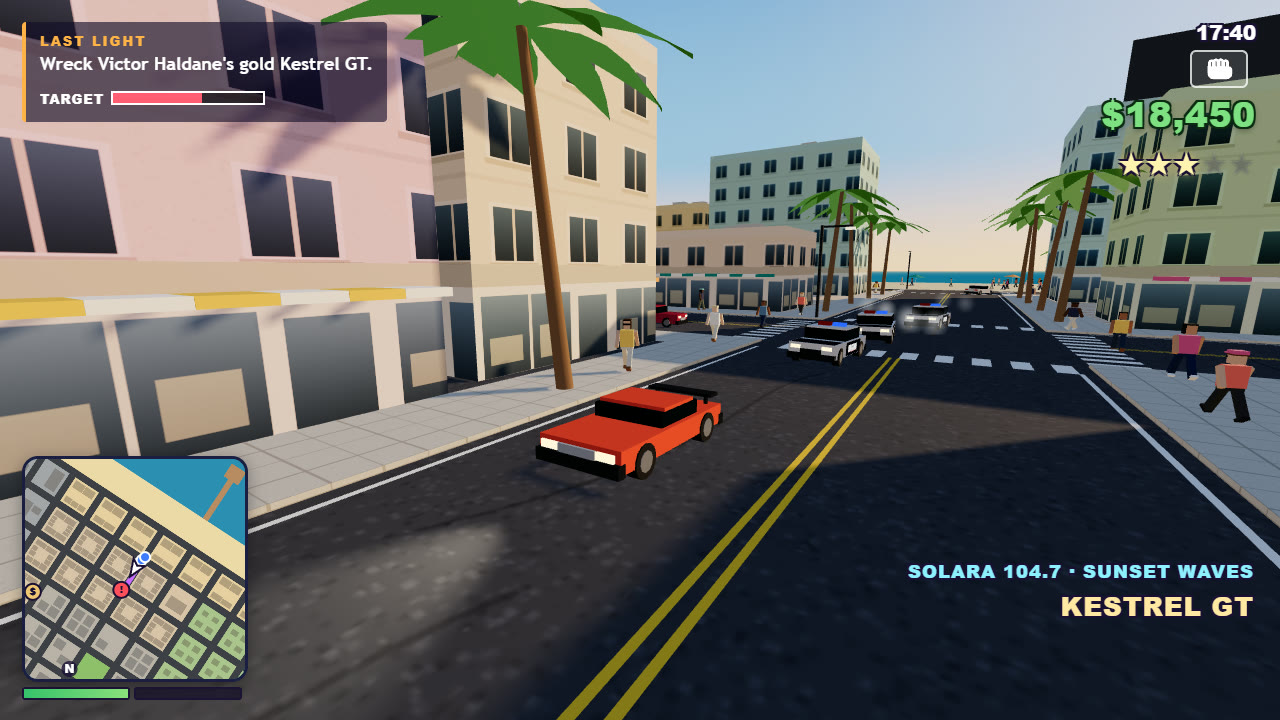
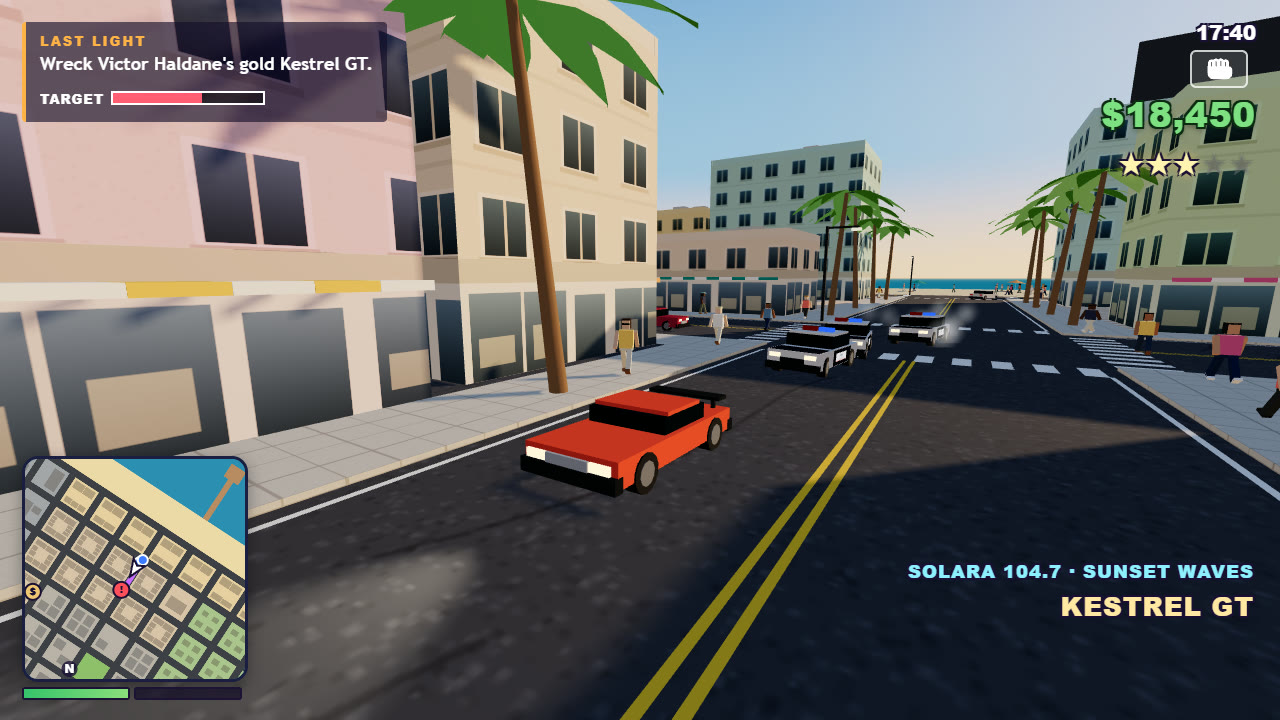
Polish chase AI, carjacking, explosions and screenshot scenes
Cruisers stop doubling back and box in a stopped car instead of shoving it;
startled drivers brake for a carjack; explosions hurt people and cars nearby;
gameplay systems lead the dossier; sky, haze and muzzle flash tuned.

diff --git a/game/src/game.js b/game/src/game.js
@@ -2,29 +2,15 @@
 // the render loop, and moves between the title screen, play, pause, death and arrest. Systems reach
 // each other through this object and talk through its event bus.
 import * as THREE from 'three';
-import { STEP, CAMERA } from './core/config.js';
-import { Dice } from './core/random.js';
-import { EventBus } from './core/events.js';
-import { Input } from './core/input.js';
-import { buildCity } from './world/cityBuilder.js';
-import { createSky, Lighting } from './world/skyAndLight.js';
-import { VehicleManager } from './vehicles/vehicleManager.js';
+import { MissionManager } from './missions/missionManager.js';
+import { PoliceManager } from './police/policeManager.js';
+import { WantedLevel } from './police/wantedLevel.js';
 import { TrafficManager } from './traffic/trafficManager.js';
+import { VehicleManager } from './vehicles/vehicleManager.js';
 import { PedestrianManager } from './peds/pedestrianManager.js';
 import { Player } from './player/player.js';
 import { CameraRig } from './player/cameraRig.js';
 import { CombatSystem } from './combat/combatSystem.js';
-import { WantedLevel } from './police/wantedLevel.js';
-import { PoliceManager } from './police/policeManager.js';
-import { MissionManager } from './missions/missionManager.js';
-import { Particles } from './fx/particles.js';
-import { SkidMarks } from './fx/skidMarks.js';
-import { Tracers } from './fx/tracers.js';
-import { Headlights } from './fx/headlights.js';
-import { AudioEngine } from './audio/audioEngine.js';
-import { SoundEffects } from './audio/soundEffects.js';
-import { VehicleAudio } from './audio/vehicleAudio.js';
-import { Radio, STATIONS } from './audio/radio.js';
 import { Hud } from './ui/hud.js';
 import { Minimap } from './ui/minimap.js';
 import { Notifications } from './ui/notifications.js';
@@ -33,7 +19,21 @@ import { SaveGames } from './save/saveGame.js';
 import { Progress } from './progression/progress.js';
 import { Pickups } from './progression/pickups.js';
 import { GunShop } from './progression/gunShop.js';
+import { AudioEngine } from './audio/audioEngine.js';
+import { SoundEffects } from './audio/soundEffects.js';
+import { VehicleAudio } from './audio/vehicleAudio.js';
+import { Radio, STATIONS } from './audio/radio.js';
+import { Particles } from './fx/particles.js';
+import { SkidMarks } from './fx/skidMarks.js';
+import { Tracers } from './fx/tracers.js';
+import { Headlights } from './fx/headlights.js';
+import { buildCity } from './world/cityBuilder.js';
+import { createSky, Lighting } from './world/skyAndLight.js';
 import { place } from './missions/missionPlaces.js';
+import { STEP, CAMERA } from './core/config.js';
+import { Dice } from './core/random.js';
+import { EventBus } from './core/events.js';
+import { Input } from './core/input.js';
 
 export class Game {
   constructor(canvas, { seed = 7, shot = null } = {}) {

diff --git a/game/src/vehicles/vehicleModels.js b/game/src/vehicles/vehicleModels.js
@@ -15,7 +15,6 @@ function materials() {
   shared.front = new THREE.MeshBasicMaterial({ color: 0xfff6dc, toneMapped: false });
   shared.tire = new THREE.MeshStandardMaterial({ color: 0x1c1c1e, roughness: 0.9 });
   shared.hub = new THREE.MeshStandardMaterial({ color: 0xc9ccd1, roughness: 0.3, metalness: 0.7 });
-  shared.wheel = null;
   shared.police = new THREE.MeshBasicMaterial({ map: signTexture({ title: 'PSPD', subtitle: 'PORT SOLARA POLICE', background: '#f4f4f4', color: '#1d3557', accent: '#e63946' }), transparent: false });
   shared.haldane = new THREE.MeshBasicMaterial({ map: signTexture({ title: 'HALDANE', subtitle: 'SECURE COURIER', background: '#1d3047', color: '#ffd27a', accent: '#ffd27a' }) });
   shared.taxi = new THREE.MeshBasicMaterial({ map: signTexture({ title: 'VIREO CAB', background: '#ffe9a8', color: '#1b1b1b', accent: '#1b1b1b', width: 256, height: 64 }), toneMapped: false });
@@ -106,7 +105,6 @@ export function createVehicleModel(type, paint) {
   root.add(body, glass, front, rear);
 
   const wheels = [];
-  const wheelMaterials = [mats.tire, mats.hub, mats.hub];
   const L = type.length;
   const W = type.width;
   const axle = L / 2 - (type.shape === 'van' ? 1.0 : 0.85);
@@ -122,7 +120,6 @@ export function createVehicleModel(type, paint) {
     root.add(pivot);
     wheels.push({ pivot, spin, front: sz > 0 });
   }
-  void wheelMaterials;
 
   const parts = { root, body, glass, front, rear, rearMaterial, wheels, lightbar: null };
   if (type.police) {

diff --git a/game/src/shots/screenshotScenes.js b/game/src/shots/screenshotScenes.js
@@ -80,9 +80,9 @@ function chaseScene(game) {
   target.ai.rejoinRoad();
   game.wanted.force(3);
   const units = [
-    { x: laneX - 3.4, z: z0 + 10 },
-    { x: laneX + 0.4, z: z0 + 18 },
-    { x: laneX - 4.6, z: z0 + 27 },
+    { x: laneX - 3.6, z: z0 + 7.5 },
+    { x: laneX + 0.2, z: z0 + 13 },
+    { x: laneX - 4.2, z: z0 + 19.5 },
   ];
   for (const spec of units) {
     const unit = game.police.spawnUnit(0, 999, { at: { x: spec.x, z: spec.z, heading: Math.PI } });
@@ -99,10 +99,10 @@ function chaseScene(game) {
   simulate(game, 36, () => hold(game, ['KeyW']));
   const rig = game.cameraRig;
   rig.carYawOffset = Math.PI + 0.58;
-  rig.carPitch = 0.17;
+  rig.carPitch = 0.15;
   rig.mouseIdle = 0;
   rig.yaw = car.heading + rig.carYawOffset;
-  rig.distance = 10.5;
+  rig.distance = 9;
   simulate(game, 2, () => hold(game, ['KeyW']));
   rig.yaw = car.heading + rig.carYawOffset;
   rig.mouseIdle = 0;
@@ -165,7 +165,7 @@ function combatScene(game) {
   const aimAt = (enemy) => {
     const p = game.player.pos;
     rig.yaw = Math.atan2(enemy.pos.x - p.x, enemy.pos.z - p.z) - 0.05;
-    rig.pitch = 0.05;
+    rig.pitch = 0.2;
   };
   // Drop the first enforcer, then line up on the next and fire.
   game.input.mouseDown[2] = true;

diff --git a/game/src/player/player.js b/game/src/player/player.js
@@ -6,7 +6,7 @@ import { PLAYER } from '../core/config.js';
 import { createHuman, animateHuman } from '../peds/humanModel.js';
 import { PROTAGONIST } from './playerLook.js';
 import { clamp, dampAngle } from '../core/mathUtils.js';
-import { groundHeightAt } from '../world/roadBuilder.js';
+import { groundHeightAt } from '../world/groundHeight.js';
 import { CivilianBrain } from '../peds/civilianBrain.js';
 
 export class Player {
@@ -91,6 +91,8 @@ export class Player {
   /** Starts getting into a car: walk to the door, pull out any driver, then sit. */
   beginEnter(vehicle) {
     this.entering = { vehicle, time: 0 };
+    // A civilian driver freezes when someone goes for the door.
+    if (vehicle.ai && vehicle.ai.holdFor) vehicle.ai.holdFor(2.5);
   }
 
   enterVehicle(vehicle) {
@@ -182,7 +184,7 @@ export class Player {
       this.pos.z += (dz / d) * step;
       this.heading = dampAngle(this.heading, Math.atan2(dx, dz), 14, dt);
       // A moving car pulls away from a would-be thief.
-      if (vehicle.speed > 9) this.entering = null;
+      if (vehicle.speed > 9 && this.entering.time > 0.8) this.entering = null;
       return;
     }
     this.enterVehicle(vehicle);

diff --git a/game/src/world/roadBuilder.js b/game/src/world/roadBuilder.js
@@ -5,8 +5,9 @@ import { CITY } from '../core/config.js';
 import { MeshBuilder } from './meshBuilder.js';
 import { cityMaterials } from './materials.js';
 import { nodeX, nodeZ, blockCenterX, blockCenterZ } from './cityLayout.js';
+import { CURB_HEIGHT } from './groundHeight.js';
 
-const CURB = 0.15;
+const CURB = CURB_HEIGHT;
 const YELLOW = new THREE.Color('#f2c230');
 const WHITE = new THREE.Color('#f4f1ea');
 
@@ -110,14 +111,4 @@ function crosswalk(dash, x, z, across) {
     if (across === 'x') dash(x - 1, z + k, x + 1, z + k, 0.7, WHITE);
     else dash(x + k, z - 1, x + k, z + 1, 0.7, WHITE);
   }
-}
-
-/** Height of the walkable ground at a point: curbs raise the sidewalks and lots above the road. */
-export function groundHeightAt(x, z) {
-  const half = CITY.road / 2;
-  if (x < CITY.minX + half || x > CITY.maxX - half || z < CITY.minZ + half || z > CITY.maxZ - half) return 0;
-  const fx = (((x - CITY.originX) % CITY.pitch) + CITY.pitch) % CITY.pitch;
-  const fz = (((z - CITY.originZ) % CITY.pitch) + CITY.pitch) % CITY.pitch;
-  const onRoad = fx <= half || fx >= CITY.pitch - half || fz <= half || fz >= CITY.pitch - half;
-  return onRoad ? 0 : CURB;
 }

diff --git a/game/src/traffic/roadDriver.js b/game/src/traffic/roadDriver.js
@@ -20,6 +20,12 @@ export class RoadDriver {
     this.reverseTime = 0;
     this.panic = 0;
     this.honkCooldown = 0;
+    this.halt = 0;
+  }
+
+  /** Stops dead for a moment (someone is yanking the door open). */
+  holdFor(seconds) {
+    this.halt = Math.max(this.halt, seconds);
   }
 
   /** Puts the driver on the segment a → b, keeping only waypoints still ahead of the car. */
@@ -87,6 +93,13 @@ export class RoadDriver {
     const c = v.controls;
     this.honkCooldown -= dt;
     this.panic = Math.max(0, this.panic - dt);
+    if (this.halt > 0) {
+      this.halt -= dt;
+      c.throttle = 0;
+      c.brake = 1;
+      c.handbrake = false;
+      return;
+    }
     if (this.route.length === 0) this.rejoinRoad();
     while (this.route.length && Math.hypot(this.route[0].x - v.pos.x, this.route[0].z - v.pos.z) < 4.5) this.route.shift();
     while (this.route.length < 4) this.extend();

diff --git a/game/src/missions/missionManager.js b/game/src/missions/missionManager.js
@@ -9,6 +9,9 @@ import { MissionMarkers } from './markers.js';
 import { CAST } from '../player/playerLook.js';
 import { formatCash } from '../core/mathUtils.js';
 
+/** Steps that finish in a single update: the HUD keeps showing the previous objective through them. */
+const INSTANT_STEPS = new Set(['spawnVehicle', 'forceWanted', 'givePistol', 'pickup', 'phone']);
+
 class IdleBrain {
   constructor(heading) {
     this.heading = heading;
@@ -128,6 +131,7 @@ export class MissionManager {
     const { mission, index, ctx } = this.active;
     const step = mission.steps[index];
     if (!step) return null;
+    if (INSTANT_STEPS.has(step.type) && this.view) return this.view;
     const type = STEP_TYPES[step.type];
     const text = type.text ? type.text(ctx, step) : step.text ?? null;
     return {

diff --git a/game/src/fx/particles.js b/game/src/fx/particles.js
@@ -116,6 +116,9 @@ export class Particles {
       const heat = this.random();
       this.glowPool.emit(x + this.jitter(1), y + this.random() * 0.6, z + this.jitter(1), this.jitter(0.4), 2 + this.random() * 2, this.jitter(0.4), 0.5 + this.random() * 0.4, 1, 0.45 + heat * 0.4, 0.1, 0.9, -1);
     });
+    this.rate(`flame:${Math.round(x)}:${Math.round(z)}`, 9, dt, () => {
+      this.bigGlowPool.emit(x + this.jitter(0.8), y + 0.3, z + this.jitter(0.8), this.jitter(0.3), 1.6 + this.random(), this.jitter(0.3), 0.55 + this.random() * 0.3, 1, 0.42, 0.08, 0.55, -1);
+    });
     this.smoke(x, y + 1.2, z, 'dark', dt * 0.6, `firesmoke:${Math.round(x)}:${Math.round(z)}`);
   }
 

diff --git a/game/src/world/groundHeight.js b/game/src/world/groundHeight.js
@@ -1,0 +1,13 @@
+// How high the walkable ground is at a point: roads sit at 0, curbs raise sidewalks and lots.
+import { CITY } from '../core/config.js';
+
+export const CURB_HEIGHT = 0.15;
+
+export function groundHeightAt(x, z) {
+  const half = CITY.road / 2;
+  if (x < CITY.minX + half || x > CITY.maxX - half || z < CITY.minZ + half || z > CITY.maxZ - half) return 0;
+  const fx = (((x - CITY.originX) % CITY.pitch) + CITY.pitch) % CITY.pitch;
+  const fz = (((z - CITY.originZ) % CITY.pitch) + CITY.pitch) % CITY.pitch;
+  const onRoad = fx <= half || fx >= CITY.pitch - half || fz <= half || fz >= CITY.pitch - half;
+  return onRoad ? 0 : CURB_HEIGHT;
+}

diff --git a/game/src/peds/civilianBrain.js b/game/src/peds/civilianBrain.js
@@ -2,7 +2,7 @@
 // one, lounges about on the beach, and runs for it when there is shooting, a crash or a carjacking
 // nearby. Robbed or punched locals panic; some of them call the police on the player.
 import { PED } from '../core/config.js';
-import { ringPoint, ringParam, nearestRing, atCorner, crossingFrom, beachSpot, ringPerimeter } from './sidewalkPaths.js';
+import { ringPoint, ringParam, nearestRing, atCorner, crossingFrom, beachSpot } from './sidewalkPaths.js';
 
 export class CivilianBrain {
   constructor(game, { ring = null, s = 0, beach = false }) {
@@ -106,4 +106,3 @@ export class CivilianBrain {
   }
 }
 
-export { ringPerimeter };

diff --git a/game/src/missions/missionPlaces.js b/game/src/missions/missionPlaces.js
@@ -1,6 +1,6 @@
 // Named places the story refers to, resolved to ground coordinates from the city plan.
 import { CITY } from '../core/config.js';
-import { LANDMARK_BLOCKS, blockCenterX, blockCenterZ, nodeX, nodeZ, PIER } from '../world/cityLayout.js';
+import { LANDMARK_BLOCKS, blockCenterX, blockCenterZ, nodeX, PIER } from '../world/cityLayout.js';
 
 const gull = LANDMARK_BLOCKS.luckyGull;
 const taco = LANDMARK_BLOCKS.tacoStand;
@@ -29,5 +29,3 @@ export function place(name) {
   return PLACES[name];
 }
 
-/** Spots along the Seaglass Parade beach road, used by the screenshot scenes. */
-export const PARADE_Z = nodeZ(CITY.rows);

diff --git a/game/src/world/propBuilder.js b/game/src/world/propBuilder.js
@@ -6,7 +6,6 @@ import { MeshBuilder } from './meshBuilder.js';
 import { cityMaterials } from './materials.js';
 import { signTexture } from './textures.js';
 import { createRandom } from '../core/random.js';
-import { CITY } from '../core/config.js';
 
 const CONTAINER_COLORS = ['#c0392b', '#1f6fa8', '#2a9d8f', '#e07b39', '#e9e4d8', '#6b4f9e', '#d4a72c'];
 
@@ -272,4 +271,3 @@ export function parkedCarSlots(plan) {
   return slots;
 }
 
-export const ISLAND = CITY.bounds;
